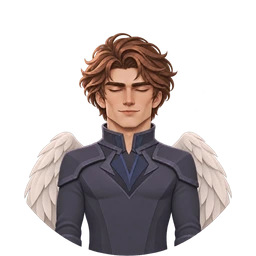
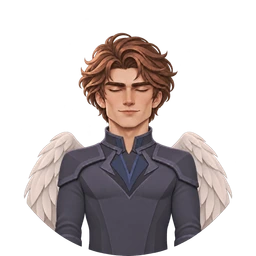
Replace winged guardian with owner corrected neck portrait

diff --git a/games/heroes-of-ether/public/shared/art-revision.js b/games/heroes-of-ether/public/shared/art-revision.js
@@ -7,12 +7,13 @@ window.KillexArtRevision = Object.freeze({
     const parts = value.split("#"), base = parts[0]
       .replace(/([?&])art=[^&]*(&?)/g, (_, a, b) => b ? a : "").replace(/[?&]$/, "");
     const prepared = preparedInterfaceAssets.has(base.split("?")[0].replace(/^\//,""));
+    const revisedGuardian = /assets\/skins\/owner-gifts-v1\/\d+\/gift-winged-guardian\.webp/.test(base);
     const revisedLeagueFrame = /assets\/frames\/(?:leagues-v3\/|rims-v2\/(?:canon_)?(?:bronze|silver|gold|platinum|diamond|champions)\.webp)/.test(base);
     const revisedFrame = /assets\/frames\/(?:rims-v2|titles-v4)\//.test(base);
     const selectedPortrait = /assets\/skins\/(?:premium-v2\/\d+\/premium-2|collections-v1\/\d+\/(?:desert-cat|grove-faun))\.webp/.test(base);
     const revised = /assets\/achievements\/illustrated-v2\/(?!easter_)/.test(base)
       || /assets\/skins\/(?:transparent-v2\/\d+\/vip-[13]|premium-v2\/\d+\/premium-2)\.webp/.test(base);
-    return base + (base.includes("?") ? "&" : "?") + "art=" + (revisedLeagueFrame ? "20261123-league-frames" : revisedFrame ? "20261123-title-frames" : prepared ? "20261123-interface-art" : selectedPortrait ? "20261123-selected-portraits" : revised ? "20261122c" : "20261122b")
+    return base + (base.includes("?") ? "&" : "?") + "art=" + (revisedGuardian ? "20261123-guardian-neck" : revisedLeagueFrame ? "20261123-league-frames" : revisedFrame ? "20261123-title-frames" : prepared ? "20261123-interface-art" : selectedPortrait ? "20261123-selected-portraits" : revised ? "20261122c" : "20261122b")
       + (parts.length > 1 ? "#" + parts.slice(1).join("#") : "");
   },
 });

diff --git a/games/heroes-of-ether/public/index.html b/games/heroes-of-ether/public/index.html
@@ -2,7 +2,7 @@
 <html lang="ru" class="game-booting">
   <head>
     <script src="shared/browser-abort-compat.js?v=20261123-interface-art"></script>
-    <script src="shared/art-revision.js?v=20261123-league-frames"></script>
+    <script src="shared/art-revision.js?v=20261123-guardian-neck"></script>
     <meta charset="utf-8" />
     <meta name="viewport" content="width=device-width, initial-scale=1, viewport-fit=cover" />
     <meta name="theme-color" content="#101321" />
@@ -650,7 +650,7 @@
     <script src="shared/achievement-badge.js?v=20261123-interface-art"></script>
     <script src="ui/progression/greatness-label.js?v=20261123-interface-art"></script>
     <script src="shared/skin-collection-preview.js?v=20261123-interface-art"></script>
-    <script src="shared/player-identity.js?v=20261123-interface-art"></script>
+    <script src="shared/player-identity.js?v=20261123-guardian-neck"></script>
     <script src="shared/league-appearance.js?v=20261123-league-frames"></script>
     <script src="shared/lobby-menu-art.js?v=20261123-interface-art"></script>
     <script src="shared/interface-theme.js?v=20261123-interface-art"></script>

diff --git a/games/heroes-of-ether/public/shared/player-identity.js b/games/heroes-of-ether/public/shared/player-identity.js
@@ -700,7 +700,7 @@
     ["gift-winged-guardianess", "Крылатая хранительница"],
   ].map(([id, name]) => {
     const variants = Object.freeze(Object.fromEntries([64, 128, 256, 512, 1024]
-      .map(size => [size, `assets/skins/owner-gifts-v1/${size}/${id}.webp?art=20261123-interface-art`])));
+      .map(size => [size, `assets/skins/owner-gifts-v1/${size}/${id}.webp?art=${id === "gift-winged-guardian" ? "20261123-guardian-neck" : "20261123-interface-art"}`])));
     return Object.freeze({ id, name, ownerGift: true, variants, arena: variants[1024] });
   }));
   const allSkins = Object.freeze([...skins, ...accountSkins, ...themeSkins, ...collectionSkins, ...ownerGiftSkins]);
